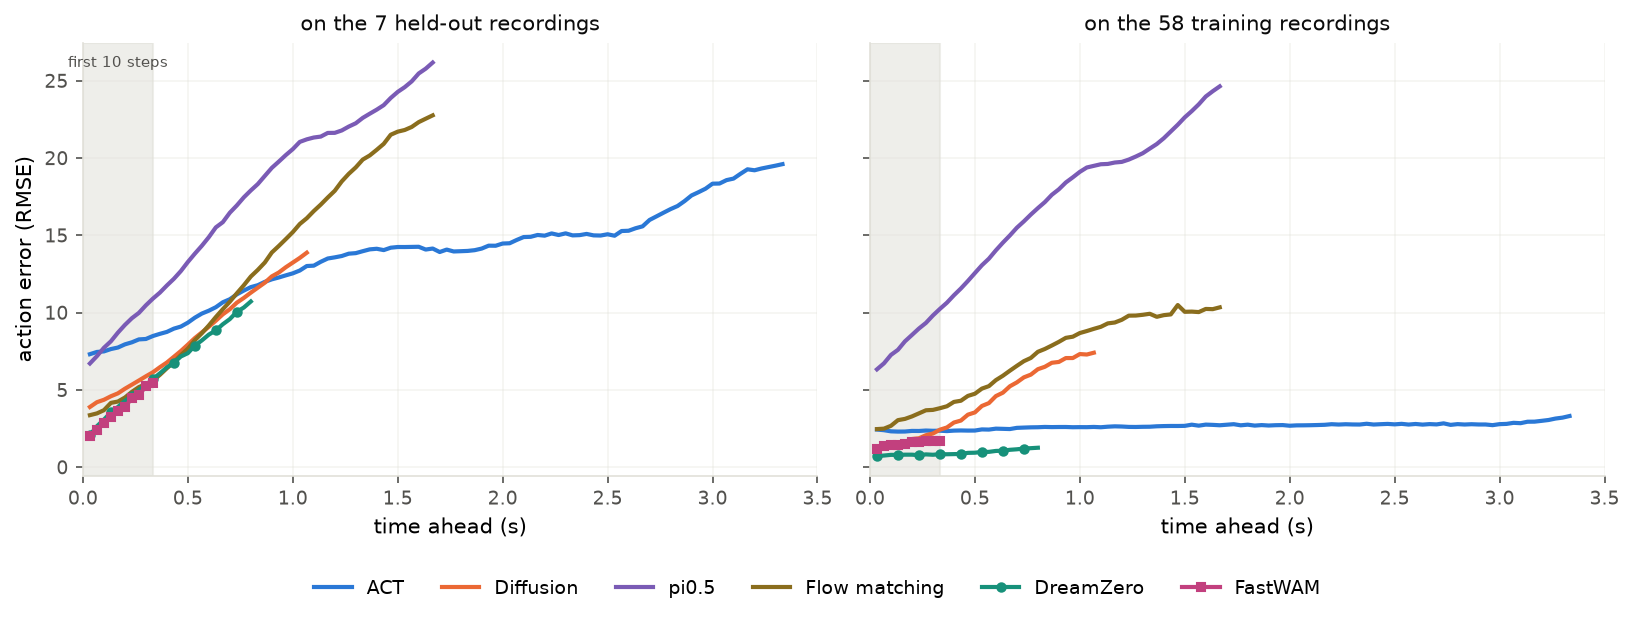
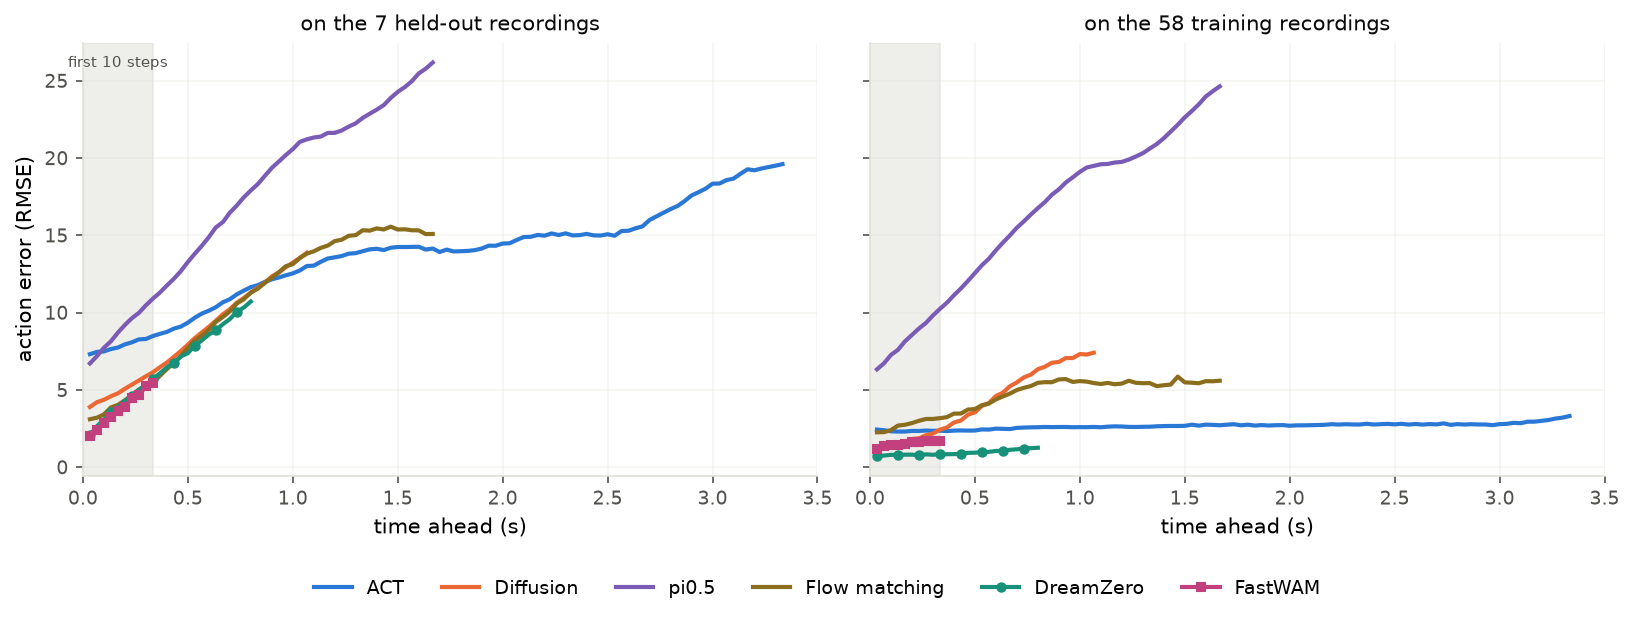
Flow matching retrained on whole images leads the behaviour-cloning policies; the third round's methods, in blue
Resized to 180x240 instead of a 2 % patch, flow matching's held-out error over
its plan falls from 14.4 to 11.5 and it now beats Diffusion at ten, 24 and 32
steps. pi0.5's ridge crop changes nothing, like its other crops. Methods gain
the recording-distance matrix, the learning curves and the FastWAM grasp
experiment.

Claude-Session: https://claude.ai/code/session_0196vDjqm3Zo6sQgqQLb5qwQ

diff --git a/documents/paper/training_analysis/sections/02_methods.tex b/documents/paper/training_analysis/sections/02_methods.tex
@@ -34,11 +34,12 @@ with a ResNet-18 encoder, \new{shared by all five cameras} and trained from
 scratch. Flow matching \citep{lipman2023flow} learns to move noise to an action
 chunk along straight lines. \new{It sees only the current frame and plans 50
 steps.} The model therefore separates pi0.5's objective from its pretraining.
-\new{The run reported here kept a default meant for small images: each camera
-frame, $480\times640$ pixels, is cropped to a random $84\times84$ patch in
-training and to the central one at test time, without being resized first. It
-therefore sees about 2\,\% of each image. We retrain it with Diffusion's
-handling, resizing to $180\times240$ without cropping.}
+\rev{Our first run kept a default meant for small images: each camera frame,
+$480\times640$ pixels, was cropped to a random $84\times84$ patch in training
+and to the central one at test time, without being resized first, so it saw
+about 2\,\% of each image. The model reported here is retrained with
+Diffusion's handling instead, resizing each frame to $180\times240$ without
+cropping; the first run appears only in Section~\ref{sec:compare}.}
 
 \textbf{pi0.5} \citep{pi05} is a vision-language-action model: a pretrained
 vision-language model reads the images and a written instruction, and a
@@ -205,6 +206,54 @@ a model that has learned nothing about motion, and assumes nothing will change,
 would predict. A model's \emph{margin} is its PSNR minus this baseline's. A
 positive margin means the model predicts the future better than assuming
 nothing moves.}
+
+\rev{\textbf{How different the recordings look.} A held-out demonstration can be
+hard because it asks for different motions or because it looks different. We
+measure the second in each model's own terms: every frame of every
+demonstration goes through the model's preprocessing and vision encoder, and
+we keep the encoder's summary of each camera, scaled to unit length and joined
+across cameras. For ACT this is its ResNet-18's feature map averaged over the
+image; for Diffusion and flow matching, each camera encoder's output; for
+pi0.5, the image tokens averaged; for the two world action models, their image
+autoencoder's latent averaged onto a coarse grid. The two autoencoders are
+pretrained and frozen, so their features show what the model is shown, not
+what our training taught it. Two demonstrations show the same fold at
+different paces, so frame $t$ of one is not frame $t$ of the other. If
+demonstration $B$ has $M$ frames and $A$ has $N \ge M$, we match every frame of
+$B$ to a different frame of $A$, keeping the order:
+\begin{equation}
+  d(A,B) = \min_{i_0 < i_1 < \dots < i_{M-1}} \frac{1}{M}\sum_{j=0}^{M-1}
+  \bigl(1 - \cos(f^A_{i_j}, f^B_j)\bigr),
+\end{equation}
+where $f$ is a frame's feature vector. Dynamic programming finds the best
+match exactly. Doing this for every pair of the 65 demonstrations gives a
+$65\times65$ matrix, which we divide by its largest entry so that every model
+reads from 0 to 1. The question is whether the test demonstrations are further
+from their nearest training demonstration than the training demonstrations are
+from each other.}
+
+\rev{\textbf{Learning curves.} The runs above kept only their last checkpoints,
+so we retrain each of the six models with the same settings and keep a
+checkpoint every 5000 steps (10\,000 for flow matching and DreamZero). We score
+the action error of every checkpoint on the training and test demonstrations
+exactly as above, so the last point of each curve is the model's row in
+Table~\ref{tab:actions}.}
+
+\rev{\textbf{Does FastWAM's touch prediction follow the gripper?} We find every
+grasp in the seven test demonstrations: a moment where the gripper command
+falls from open (about 0.2) to closed (about 0.02), 36 in all. We start
+FastWAM's prediction half a second before each closing, so the second it
+predicts spans the contact, and compare its predicted fingertip images with
+the recorded ones. In our FastWAM, as in the original, the predicted video
+cannot see the planned actions at all; it sees only the current images, the
+instruction and the current joint positions. So we test two things. First, on
+our FastWAM, we change the current gripper position it is given from the
+recorded (open) value to closed. Second, we train a FastWAM whose video
+\emph{can} read the action chunk, and give it the recorded commands either
+unchanged or with the gripper held open, so that the grasp is never
+commanded. If the model has learned how the gel responds to grasping, the
+predicted fingertip images should show contact only when the grasp is
+commanded.}
 
 \subsection{The tactile crop}
 \label{sec:cropmethod}

diff --git a/documents/paper/training_analysis/sections/03_experiments.tex b/documents/paper/training_analysis/sections/03_experiments.tex
@@ -46,18 +46,19 @@ random seeds (Appendix Table~\ref{tab:floor}). It does not prove that
 predicting the future is what helps: FastWAM starts from a pretrained video
 model, and DreamZero \new{is given the past \SI{1.6}{\second} of arm commands}.
 
-\new{\textbf{Flow matching is the most accurate behaviour-cloning policy over
-the first ten steps}, at 4.5 against Diffusion's 5.0. Further ahead the two
-converge (7.6 each at step 24), and by step 32 Diffusion is slightly ahead
-(9.2 against 9.8). Flow matching and pi0.5 share their training objective, and
-flow matching's error over the first ten steps is half pi0.5's (4.5 against
-9.0). On our data, pi0.5's pretraining with our narrow LoRA does worse than
-training a small model from scratch. This flow-matching run sees only a small
-central patch of each camera (Section~\ref{sec:models}), and 98.7\,\% of what
-moves its plan is proprioception (Figure~\ref{fig:streams}). That a policy
-which barely sees plans the first ten steps best says that over a third of a
-second the arms' own positions predict the next commands almost entirely.}
-\pending{flow matching retrained on resized, uncropped images.}
+\rev{\textbf{Flow matching is the most accurate behaviour-cloning policy}, over
+the first ten steps and further ahead: 4.3 against Diffusion's 5.0 over ten
+steps, 7.3 against 7.6 over 24 and 9.0 against 9.2 over 32. Flow matching and
+pi0.5 share their training objective, and flow matching's error over the first
+ten steps is half pi0.5's (4.3 against 9.0). On our data, pi0.5's pretraining
+with our narrow LoRA does worse than training a small model from scratch. Our
+first flow-matching run saw only a random \(84\times84\) patch of each camera
+image, about 2\,\% of it (Section~\ref{sec:models}), and 98.7\,\% of what moved
+its plan was proprioception (Figure~\ref{fig:streams}). Retrained on whole,
+resized images, it improves on the test demonstrations from 14.4 to 11.5 over
+its plan, but only from 4.5 to 4.3 over the first ten steps. Over a third of a
+second the arms' own positions predict the next commands almost entirely;
+seeing the cameras matters further ahead.}
 
 \textbf{Diffusion's error starts low but grows fastest.} On the test
 demonstrations it rises from 3.9 at the first step to 13.9 by step 32, a factor
@@ -186,7 +187,8 @@ the overhead camera alone.}
   \caption{How much each input moves each model's plan (input contribution,
   Section~\ref{sec:measures}). Each bar adds up to 100\,\%, so compare the
   order of inputs within a bar, not heights between bars. pi0.5 reads two
-  fingertips; the others read four.}
+  fingertips; the others read four. \rev{The flow-matching bar is our first
+  run, which saw a 2\,\% patch of each camera.}}
   \label{fig:streams}
 \end{figure}
 
@@ -195,8 +197,8 @@ relies most on the overhead camera, then proprioception, with the fingertips
 last. Diffusion and pi0.5 rely mostly on proprioception: about three quarters
 of what moves pi0.5's plan is where the arms are. \new{FastWAM leans on
 proprioception most of all, 86\,\%, with 11\,\% for the overhead camera and
-3\,\% for the fingertips.} \pending{input contribution of flow matching and
-DreamZero, including DreamZero's past commands.}
+3\,\% for the fingertips.} \pending{input contribution of the retrained flow
+matching and of DreamZero, including DreamZero's past commands.}
 
 
 \subsection{How well the world action models predict the cameras}

diff --git a/documents/paper/training_analysis/tables/action_table.tex b/documents/paper/training_analysis/tables/action_table.tex
@@ -8,7 +8,7 @@ ACT & 100 & 2.67 & 14.09 & 5.3 & 7.88 & 3.4 \\
 Diffusion & 32 & 4.74 & 9.18 & 1.9 & 5.03 & 2.8 \\
 pi0.5 & 50 & 17.05 & 18.35 & 1.1 & 8.96 & 1.1 \\
 pi0.5, three passes & 50 & 16.41 & 18.01 & 1.1 & 8.57 & 1.1 \\
-Flow matching & 50 & 7.57 & 14.44 & 1.9 & 4.51 & 1.4 \\
+Flow matching & 50 & 4.75 & 11.52 & 2.4 & 4.31 & 1.6 \\
 DreamZero & 24 & \textbf{0.94} & 7.02 & 7.4 & 4.17 & 5.3 \\
 FastWAM & 10 & 1.53 & \textbf{3.94} & 2.6 & \textbf{3.94} & 2.6 \\
 \bottomrule

diff --git a/documents/paper/training_analysis/tables/crop_table.tex b/documents/paper/training_analysis/tables/crop_table.tex
@@ -4,7 +4,7 @@ model & no crop & rows & rows, unstretched & four edges & ridge \\
 \midrule
 ACT & 14.09 & 14.68 & \textbf{14.08} & 14.70 & -- \\
 Diffusion & 9.18 & 9.21 & n/a & \textbf{9.10} & -- \\
-pi0.5 & 18.35 & \textbf{18.11} & n/a & 18.34 & -- \\
+pi0.5 & 18.35 & \textbf{18.11} & n/a & 18.34 & 18.49 \\
 DreamZero & \textbf{7.02} & n/a & n/a & -- & -- \\
 FastWAM & \textbf{3.94} & n/a & n/a & -- & -- \\
 \bottomrule

diff --git a/documents/paper/training_analysis/training_analysis.tex b/documents/paper/training_analysis/training_analysis.tex
@@ -17,6 +17,9 @@
 \definecolor{newgreen}{RGB}{0,128,60}
 \newcommand{\new}[1]{{\color{black}#1}}
 \newenvironment{newtext}{\color{black}}{}
+% Material added in the third round (2026-10-07) is set in blue.
+\definecolor{newblue}{RGB}{0,70,200}
+\newcommand{\rev}[1]{{\color{newblue}#1}}
 % A result whose run has not finished. None may survive into a shared version.
 \newcommand{\pending}[1]{{\color{red}[pending: #1]}}
 
